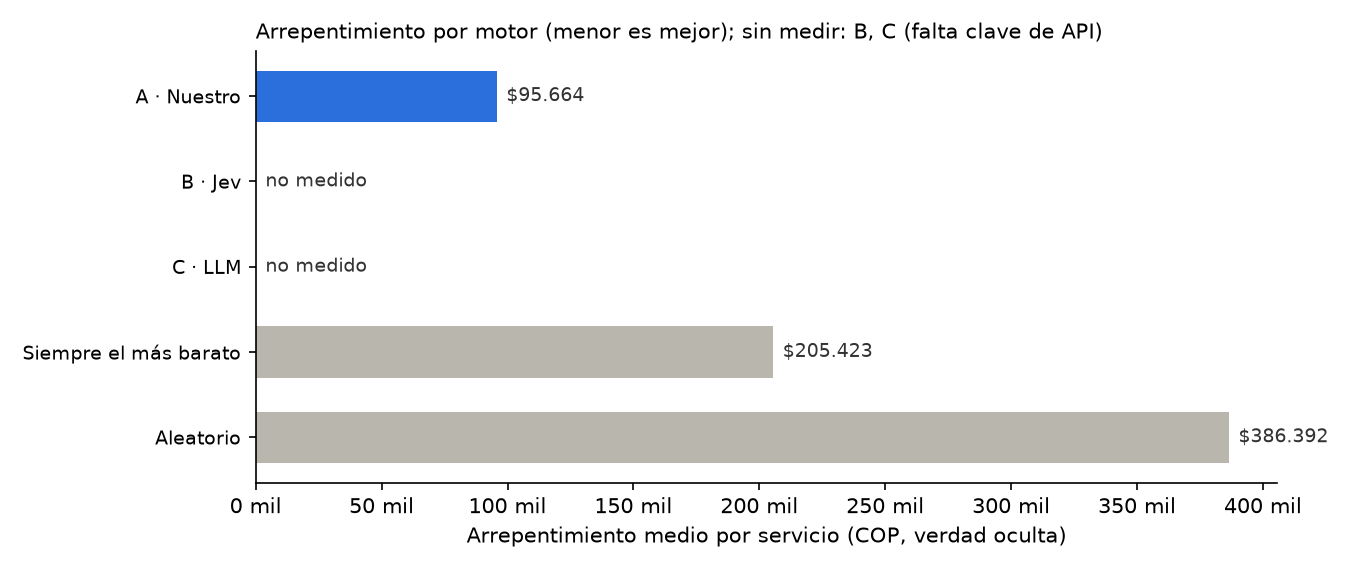
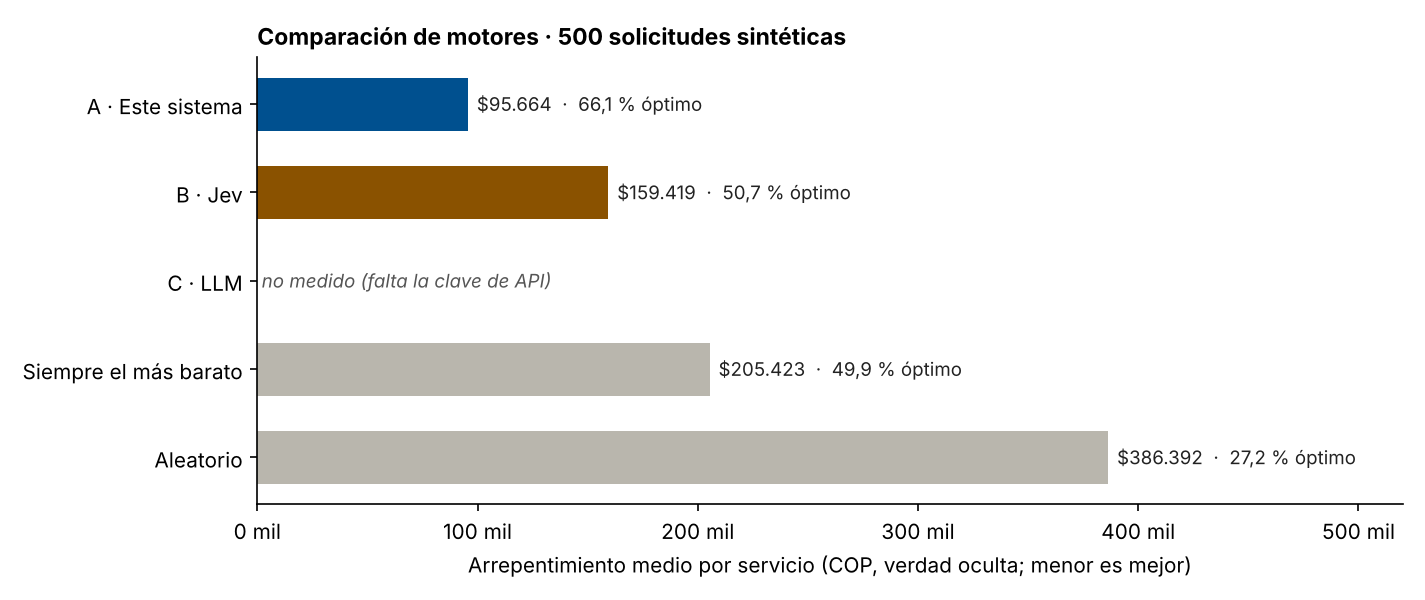
docs: arquitectura sin Streamlit (web Angular, roles, seguimiento) y comparacion de motores con Jev medido

diff --git a/docs/arquitectura/arquitectura_gen.py b/docs/arquitectura/arquitectura_gen.py
@@ -1,0 +1,75 @@
+"""Genera docs/img/arquitectura.svg y .png. Editar el texto y volver a correr desde esta carpeta: python arquitectura_gen.py"""
+import html
+W, H = 1500, 930
+o = []
+def esc(s): return html.escape(s)
+def text(x, y, s, size=16, weight=400, fill='#0a2640', anchor='middle', style=''):
+    o.append(f'<text x="{x}" y="{y}" font-size="{size}" font-weight="{weight}" fill="{fill}" text-anchor="{anchor}" {style}>{esc(s)}</text>')
+KINDS = {'now': ('#ffffff', '#00508f', 2, ''), 'data': ('#e4edf6', '#00508f', 2, ''), 'humano': ('#ffffff', '#d6000e', 2.5, ''),
+         'warn': ('#fdf0d9', '#8a5200', 2, ''), 'fut': ('#f7f8fa', '#8a94a3', 2, 'stroke-dasharray="7 5"'), 'sim': ('#f0eefc', '#6a3fb5', 2, 'stroke-dasharray="7 5"')}
+def box(x, y, w, h, title, lines=(), kind='now'):
+    f, s, sw, d = KINDS[kind]
+    o.append(f'<rect x="{x}" y="{y}" width="{w}" height="{h}" rx="12" fill="{f}" stroke="{s}" stroke-width="{sw}" {d}/>')
+    col = '#6b7280' if kind == 'fut' else '#0a2640'
+    n = 1 + len(lines); y0 = y + h / 2 - (n - 1) * 11 + 5
+    text(x + w / 2, y0, title, 16, 700, col)
+    for i, l in enumerate(lines): text(x + w / 2, y0 + 22 + i * 19, l, 13, 400, '#33495f')
+def band(y, h, title):
+    o.append(f'<rect x="20" y="{y}" width="{W-40}" height="{h}" rx="16" fill="#f5f8fb" stroke="#c5d2df" stroke-width="1.5"/>')
+    text(40, y + 24, title, 13, 700, '#4d6a88', 'start', 'letter-spacing=".06em"')
+def arrow(x1, y1, x2, y2, dash=False, color='#4d6a88'):
+    o.append(f'<line x1="{x1}" y1="{y1}" x2="{x2}" y2="{y2}" stroke="{color}" stroke-width="2.4" {"stroke-dasharray=\"7 6\"" if dash else ""} marker-end="url(#a)"/>')
+
+o.append(f'<svg xmlns="http://www.w3.org/2000/svg" viewBox="0 0 {W} {H}" width="{W}" height="{H}" font-family="Inter, \'Segoe UI\', Helvetica, Arial, sans-serif">')
+o.append('<defs><marker id="a" viewBox="0 0 10 10" refX="9" refY="5" markerWidth="8" markerHeight="8" orient="auto-start-reverse"><path d="M0 0 10 5 0 10z" fill="#4d6a88"/></marker></defs>')
+o.append(f'<rect width="{W}" height="{H}" fill="#ffffff"/>')
+text(40, 40, 'Arquitectura: capas, interfaces intercambiables y puntos de extensión', 26, 800, '#0a2640', 'start')
+text(40, 64, 'Línea continua = existe hoy · línea punteada = punto de extensión (aún no construido). Una capa solo conoce a la de abajo.', 14, 400, '#55606e', 'start')
+
+# 1 clientes
+band(84, 130, '1 · CLIENTES')
+box(40, 112, 330, 90, 'Web Angular · 3 roles', ['solicitante · operador · gerencia', 'recomendar · pendientes · panel · seguimiento'])
+box(390, 112, 330, 90, 'Scripts y demostración', ['scripts/demo_api.py · replay.py', 'demo_concurrencia.py'])
+box(740, 112, 330, 90, 'Integraciones', ['ERP / TMS / WhatsApp', 'consumen la misma API'], 'fut')
+box(1090, 112, 370, 90, 'Mapa del seguimiento', ['interfaz MotorMapa: Leaflet + OpenStreetMap hoy', 'Google Maps mañana'], 'sim')
+# 2 api
+band(232, 100, '2 · API')
+box(40, 260, 1420, 60, 'FastAPI · app/api.py · JWT por rol', ['≈ 22 endpoints: /solicitudes · /recomendar · /decision · devolver · /pendientes · /seguimiento · /notificaciones · /proveedores/{id}/ficha · /tableros/*'])
+# 3 decision
+band(350, 168, '3 · DECISIÓN')
+box(40, 378, 330, 126, 'Motor A · propio', ['reglas duras → bayes Beta(17, 3)', '→ costo total esperado → explicación', 'determinista · 9,3 ms (p50)'])
+box(390, 378, 330, 126, 'Motor B · Jev', ['adaptador de caja negra', 'MEDIDO: $159.419 de arrepentimiento', '50,7 % óptimo · 310 ms (p50)'], 'warn')
+box(740, 378, 330, 126, 'Motor C · LLM', ['explica y critica; no ordena', 'NO MEDIDO (sin clave de API)'], 'warn')
+box(1090, 378, 370, 126, 'Otro servicio backend', ['p. ej. pronóstico de demanda,', 'optimizador de rutas', '(microservicio nuevo)'], 'fut')
+# 4 nucleo
+band(536, 112, '4 · NÚCLEO')
+box(40, 564, 270, 70, 'engine/estadisticas.py', ['bayes + decaimiento (vida media 30 d)'])
+box(330, 564, 270, 70, 'engine/fichas.py · modelos.py', ['Índice de Dureza · ML (candidato)'])
+box(620, 564, 270, 70, 'engine/config_motor.json', ['costos de retraso · λ · umbrales'])
+box(910, 564, 270, 70, 'engine/ubicacion.py', ['FuenteUbicacion: simulador hoy'], 'sim')
+box(1200, 564, 260, 70, 'contratos/ (pydantic)', ['SolicitudIn · Recomendacion'])
+# 5 datos
+band(666, 198, '5 · DATOS Y SERVICIOS')
+box(40, 694, 330, 70, 'engine/repositorio.py', ['puerto Repositorio'])
+box(390, 694, 330, 70, 'RepositorioSQLite', ['repo_sqlite.py · data/cosco.db · 17 tablas'], 'data')
+box(740, 694, 330, 70, 'Nuevo Repositorio', ['PostgreSQL: registrar_backend()'], 'fut')
+box(1090, 694, 370, 70, 'data/verdad_oculta.csv', ['solo evaluación · nunca entra al motor'], 'warn')
+box(40, 784, 330, 64, 'Slack', ['avisos por webhook (solo en .env)'])
+box(390, 784, 330, 64, 'Reentrenador nocturno', ['publica un candidato si mejora; la persona aprueba'])
+box(740, 784, 720, 64, 'Despliegue · docker-compose.yml', ['init-datos → api (:8000) + web (:4200, nginx, sin acceso a la base) · reentrenador (perfil ml)'])
+# flechas
+arrow(205, 202, 205, 260); arrow(555, 202, 555, 260); arrow(905, 202, 905, 260, True); arrow(1275, 202, 1275, 260, True)
+arrow(205, 320, 205, 378); arrow(555, 320, 555, 378); arrow(905, 320, 905, 378, True); arrow(1275, 320, 1275, 378, True)
+arrow(290, 504, 290, 564)
+arrow(290, 634, 290, 694); arrow(370, 729, 390, 729); arrow(720, 729, 740, 729, True)
+text(40, 905, 'Los motores implementan el puerto MotorDecision; solo repo_sqlite.py ejecuta SQL; la web habla únicamente con la API.', 14, 600, '#33495f', 'start')
+o.append('</svg>')
+open('../img/arquitectura.svg', 'w', encoding='utf8').write('\n'.join(o))
+try:
+    from playwright.sync_api import sync_playwright
+    import pathlib
+    with sync_playwright() as p:
+        b = p.chromium.launch(); pg = b.new_page(viewport={'width': W, 'height': H}, device_scale_factor=2)
+        pg.goto(pathlib.Path('../img/arquitectura.svg').resolve().as_uri()); pg.screenshot(path='../img/arquitectura.png'); b.close()
+except Exception as e:
+    print('PNG no regenerado:', e)

diff --git a/docs/arquitectura/bench_gen.py b/docs/arquitectura/bench_gen.py
@@ -1,0 +1,21 @@
+"""Genera docs/img/bench_comparacion.png con las cifras de reportes/paso13_banco.md (500 solicitudes sintéticas)."""
+import matplotlib; matplotlib.use('Agg')
+import matplotlib.pyplot as plt
+from matplotlib.ticker import FuncFormatter
+D = [('A · Este sistema', 95664, '66,1 % óptimo'), ('B · Jev', 159419, '50,7 % óptimo'), ('C · LLM', None, None),
+     ('Siempre el más barato', 205423, '49,9 % óptimo'), ('Aleatorio', 386392, '27,2 % óptimo')]
+fig, ax = plt.subplots(figsize=(9.5, 4.0), dpi=150)
+ys = list(range(len(D)))[::-1]
+cols = ['#00508f', '#8a5200', '#8a5200', '#b9b6ad', '#b9b6ad']
+for y, (n, v, e), c in zip(ys, D, cols):
+    if v is None:
+        ax.text(2000, y, 'no medido (falta la clave de API)', va='center', fontsize=9, color='#555', style='italic'); continue
+    ax.barh(y, v, color=c, height=0.6)
+    ax.text(v + 4000, y, f'${v:,.0f}'.replace(',', '.') + f'  ·  {e}', va='center', fontsize=9, color='#222')
+ax.set_yticks(ys, [d[0] for d in D], fontsize=10)
+ax.set_xlim(0, 520000)
+ax.set_xlabel('Arrepentimiento medio por servicio (COP, verdad oculta; menor es mejor)')
+ax.set_title('Comparación de motores · 500 solicitudes sintéticas', fontsize=11, loc='left', fontweight='bold')
+ax.xaxis.set_major_formatter(FuncFormatter(lambda v, _: f'{v/1000:,.0f} mil'.replace(',', '.')))
+for s in ('top', 'right'): ax.spines[s].set_visible(False)
+fig.tight_layout(); fig.savefig('../img/bench_comparacion.png'); print('ok')

diff --git a/README.md b/README.md
@@ -148,6 +148,8 @@ Inicio de sesión con JWT, contraseñas con PBKDF2 y bloqueo tras 5 intentos fal
 
 ![Arquitectura](docs/img/arquitectura.png)
 
+El diagrama se genera con [`docs/arquitectura/arquitectura_gen.py`](docs/arquitectura/arquitectura_gen.py) y la gráfica de comparación con [`docs/arquitectura/bench_gen.py`](docs/arquitectura/bench_gen.py).
+
 Detalle, decisiones y puntos de extensión en [`docs/ARQUITECTURA.md`](docs/ARQUITECTURA.md). Versión web: [`docs/arquitectura/index.html`](docs/arquitectura/index.html).
 
 ## Avisos por Slack
